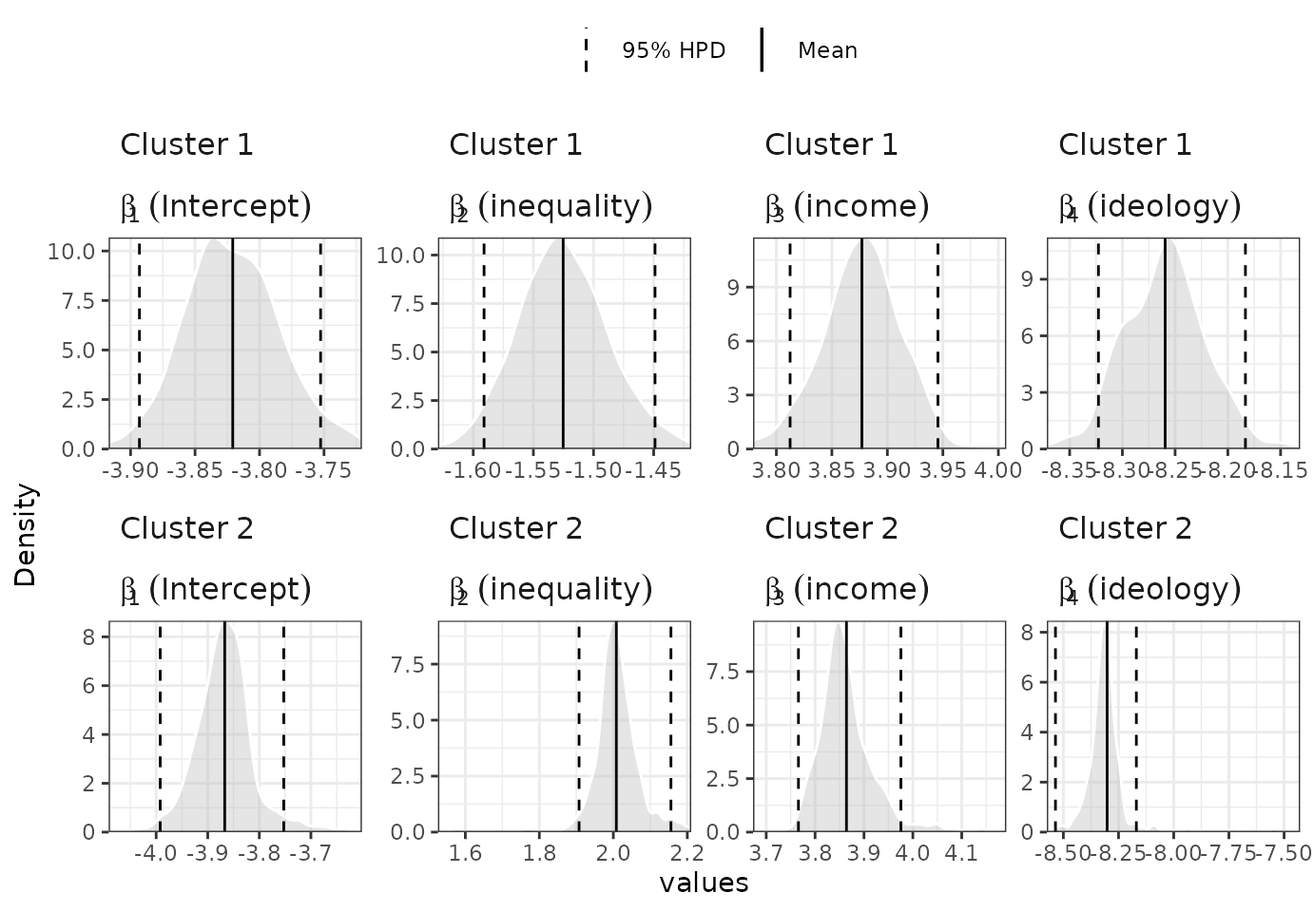
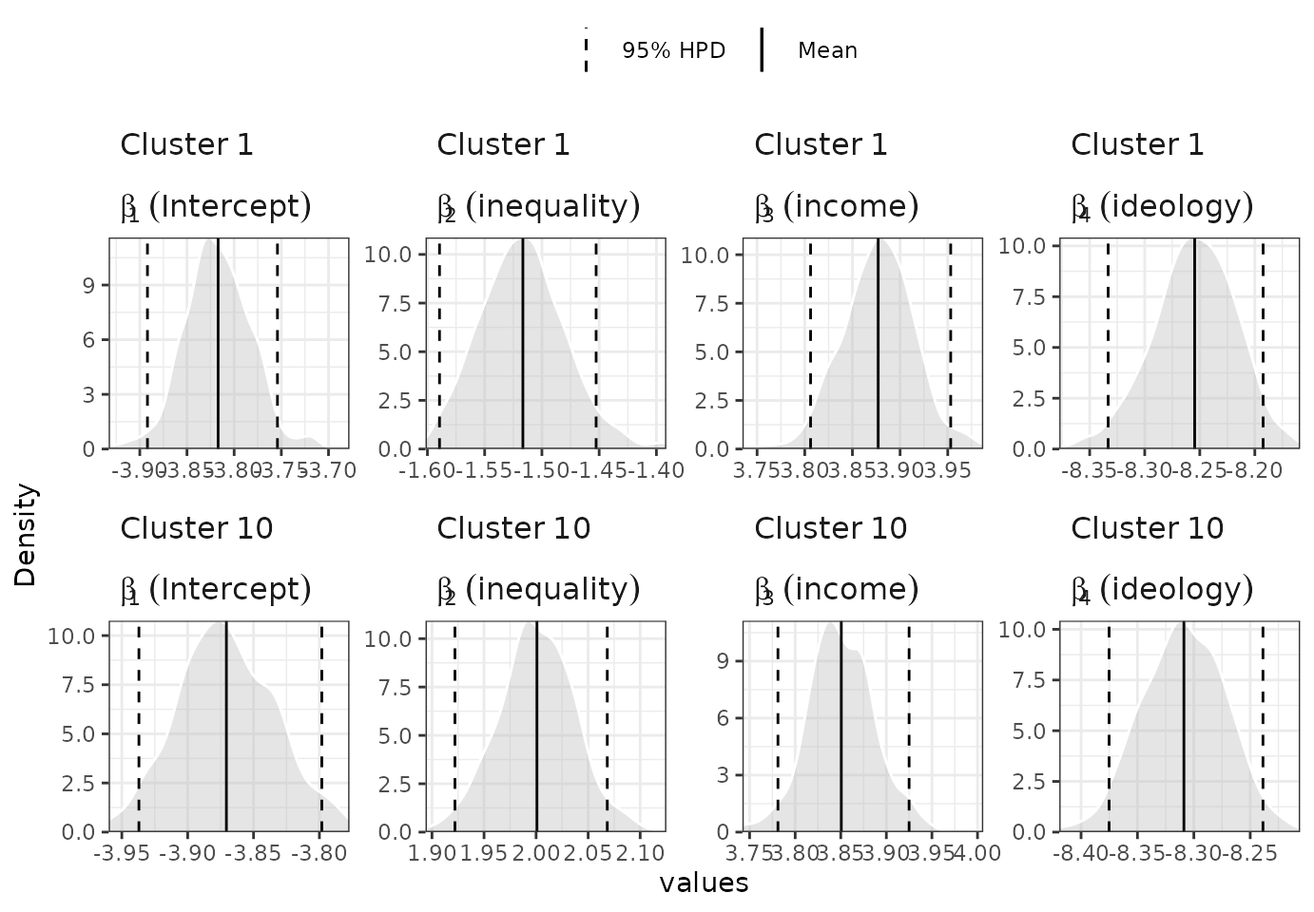
Deploying to gh-pages from @ DiogoFerrari/hdpGLM@88c614b05565bf1865a27feb75b588c62721f11c 🚀

diff --git a/articles/hdpGLM.html b/articles/hdpGLM.html
@@ -216,7 +216,7 @@ number.</p>
 <span><span class="co">#&gt; -------------------------------- </span></span>
 <span><span class="co">#&gt; dpGLM model object</span></span>
 <span><span class="co">#&gt; </span></span>
-<span><span class="co">#&gt; Maximum number of clusters activated during the estimation: 9</span></span>
+<span><span class="co">#&gt; Maximum number of clusters activated during the estimation: 16</span></span>
 <span><span class="co">#&gt; Number of MCMC iterations: 500</span></span>
 <span><span class="co">#&gt; burn-in: 10</span></span>
 <span><span class="co">#&gt; -------------------------------- </span></span>
@@ -227,21 +227,21 @@ number.</p>
 <span><span class="co">#&gt; Coefficients for cluster 1 (cluster label 1)</span></span>
 <span><span class="co">#&gt; </span></span>
 <span><span class="co">#&gt;                Post.Mean Post.Median  HPD.lower HPD.upper</span></span>
-<span><span class="co">#&gt; 1 (Intercept) -3.8207758  -3.8223273 -3.8931209 -3.752647</span></span>
-<span><span class="co">#&gt; 2  inequality -1.5252391  -1.5271405 -1.5909996 -1.448886</span></span>
-<span><span class="co">#&gt; 3      income  3.8770685   3.8775539  3.8123885  3.945545</span></span>
-<span><span class="co">#&gt; 4    ideology -8.2594432  -8.2580263 -8.3226927 -8.183320</span></span>
-<span><span class="co">#&gt; 5       sigma  0.9736972   0.9725718  0.8656882  1.080429</span></span>
+<span><span class="co">#&gt; 1 (Intercept) -3.8169985  -3.8191160 -3.8918910 -3.754108</span></span>
+<span><span class="co">#&gt; 2  inequality -1.5166133  -1.5184802 -1.5894280 -1.452637</span></span>
+<span><span class="co">#&gt; 3      income  3.8770504   3.8773247  3.8061103  3.953092</span></span>
+<span><span class="co">#&gt; 4    ideology -8.2546440  -8.2537404 -8.3331949 -8.192447</span></span>
+<span><span class="co">#&gt; 5       sigma  0.9853141   0.9860343  0.8764047  1.094404</span></span>
 <span><span class="co">#&gt; </span></span>
 <span><span class="co">#&gt; --------------------------------</span></span>
-<span><span class="co">#&gt; Coefficients for cluster 2 (cluster label 2)</span></span>
+<span><span class="co">#&gt; Coefficients for cluster 2 (cluster label 10)</span></span>
 <span><span class="co">#&gt; </span></span>
-<span><span class="co">#&gt;                Post.Mean Post.Median  HPD.lower HPD.upper</span></span>
-<span><span class="co">#&gt; 1 (Intercept) -3.8670918  -3.8678920 -3.9920918 -3.752661</span></span>
-<span><span class="co">#&gt; 2  inequality  2.0081748   2.0065151  1.9074578  2.155788</span></span>
-<span><span class="co">#&gt; 3      income  3.8641959   3.8547308  3.7659219  3.975534</span></span>
-<span><span class="co">#&gt; 4    ideology -8.3017623  -8.3132706 -8.5358097 -8.169262</span></span>
-<span><span class="co">#&gt; 5       sigma  0.9977907   0.9985164  0.9017457  1.103865</span></span>
+<span><span class="co">#&gt;               Post.Mean Post.Median  HPD.lower HPD.upper</span></span>
+<span><span class="co">#&gt; 1 (Intercept) -3.870622   -3.872127 -3.9370319 -3.798184</span></span>
+<span><span class="co">#&gt; 2  inequality  2.000834    2.000312  1.9220563  2.068377</span></span>
+<span><span class="co">#&gt; 3      income  3.850588    3.848918  3.7810806  3.924965</span></span>
+<span><span class="co">#&gt; 4    ideology -8.308805   -8.309267 -8.3751355 -8.238710</span></span>
+<span><span class="co">#&gt; 5       sigma  1.000533    1.000359  0.9180542  1.098193</span></span>
 <span><span class="co">#&gt; </span></span>
 <span><span class="co">#&gt; --------------------------------</span></span></code></pre></div>
 <p>The summary function prints the result in a tidy format. The column
@@ -254,12 +254,12 @@ points into clusters based on the estimation.</p>
 <code class="sourceCode R"><span><span class="va">welfare_clustered</span> <span class="op">=</span> <span class="fu"><a href="../reference/classify.html">classify</a></span><span class="op">(</span><span class="va">welfare</span>, <span class="va">mod</span><span class="op">)</span></span>
 <span><span class="fu"><a href="https://rdrr.io/r/utils/head.html" class="external-link">head</a></span><span class="op">(</span><span class="va">welfare_clustered</span><span class="op">)</span></span>
 <span><span class="co">#&gt;   Cluster     support inequality     income   ideology</span></span>
-<span><span class="co">#&gt; 1       2 -18.5649610  0.3392724  0.1425111  1.9225985</span></span>
-<span><span class="co">#&gt; 2       2  -9.3905812 -0.9906646 -0.5117102  0.2483346</span></span>
-<span><span class="co">#&gt; 3       2   0.9276234 -2.2318510 -0.3856288 -1.3619216</span></span>
-<span><span class="co">#&gt; 4       2 -12.3594498 -3.0079501 -0.9440585 -0.2088675</span></span>
+<span><span class="co">#&gt; 1      10 -18.5649610  0.3392724  0.1425111  1.9225985</span></span>
+<span><span class="co">#&gt; 2      10  -9.3905812 -0.9906646 -0.5117102  0.2483346</span></span>
+<span><span class="co">#&gt; 3      10   0.9276234 -2.2318510 -0.3856288 -1.3619216</span></span>
+<span><span class="co">#&gt; 4      10 -12.3594498 -3.0079501 -0.9440585 -0.2088675</span></span>
 <span><span class="co">#&gt; 5       1  -2.4834411  0.1000455  0.8322192  0.1321378</span></span>
-<span><span class="co">#&gt; 6       2 -11.4187853 -0.9543883 -0.8810503  0.2916444</span></span>
+<span><span class="co">#&gt; 6      10 -11.4187853 -0.9543883 -0.8810503  0.2916444</span></span>
 <span><span class="fu"><a href="https://rdrr.io/r/utils/head.html" class="external-link">tail</a></span><span class="op">(</span><span class="va">welfare_clustered</span><span class="op">)</span></span>
 <span><span class="co">#&gt;      Cluster     support  inequality     income   ideology</span></span>
 <span><span class="co">#&gt; 1995       1  -1.5230053 1.055855140 -0.7295937 -0.7067871</span></span>
@@ -339,8 +339,8 @@ increase that).</p>
 <span><span class="co">#&gt; </span></span>
 <span><span class="co">#&gt; Number of clusters (summary across contexts): </span></span>
 <span><span class="co">#&gt; </span></span>
-<span><span class="co">#&gt;   Average Std.Dev Median Min. Max.</span></span>
-<span><span class="co">#&gt; 1     4.2 1.48324      4    2    6</span></span>
+<span><span class="co">#&gt;   Average  Std.Dev Median Min. Max.</span></span>
+<span><span class="co">#&gt; 1     3.8 2.588436      3    1    7</span></span>
 <span><span class="co">#&gt; -------------------------------- </span></span>
 <span><span class="co">#&gt; </span></span>
 <span><span class="co">#&gt; </span></span>
@@ -349,123 +349,115 @@ increase that).</p>
 <span><span class="co">#&gt; --------------------------------</span></span>
 <span><span class="co">#&gt; Coefficients and clusters for context 1</span></span>
 <span><span class="co">#&gt; </span></span>
-<span><span class="co">#&gt;                Post.Mean Post.Median  HPD.lower  HPD.upper Cluster</span></span>
-<span><span class="co">#&gt; 1  (Intercept) -3.849978   -3.853066 -3.9312231 -3.7676252       1</span></span>
-<span><span class="co">#&gt; 2   inequality  1.786475    1.976493  0.4199656  2.0787516       1</span></span>
-<span><span class="co">#&gt; 3       income  3.859221    3.860844  3.7719850  3.9525215       1</span></span>
-<span><span class="co">#&gt; 4     ideology -8.347383   -8.345391 -8.5183149 -8.2322828       1</span></span>
-<span><span class="co">#&gt; 5  (Intercept) -4.775081   -4.598791 -6.3868101 -3.8660588       5</span></span>
-<span><span class="co">#&gt; 6   inequality -1.664089   -1.550196 -3.0220550 -1.2547717       5</span></span>
-<span><span class="co">#&gt; 7       income  3.606685    3.767715  1.5941116  3.9846027       5</span></span>
-<span><span class="co">#&gt; 8     ideology -7.535994   -8.059207 -8.3428676 -3.2389504       5</span></span>
-<span><span class="co">#&gt; 9  (Intercept) -3.396911   -3.471924 -4.7010480 -2.7765537       9</span></span>
-<span><span class="co">#&gt; 10  inequality -1.412666   -1.352167 -2.5347551 -1.1617820       9</span></span>
-<span><span class="co">#&gt; 11      income  3.251719    3.747234 -1.7184433  3.9462121       9</span></span>
-<span><span class="co">#&gt; 12    ideology -7.949701   -8.293699 -8.5108179 -3.2306134       9</span></span>
-<span><span class="co">#&gt; 13 (Intercept) -3.381096   -3.683884 -3.8078069  0.9903336      11</span></span>
-<span><span class="co">#&gt; 14  inequality -1.932123   -1.716267 -5.2628918 -1.3507539      11</span></span>
-<span><span class="co">#&gt; 15      income  3.557398    3.949408 -0.4016709  4.0520926      11</span></span>
-<span><span class="co">#&gt; 16    ideology -7.687617   -8.243344 -8.3513082  0.8944724      11</span></span>
+<span><span class="co">#&gt;               Post.Mean Post.Median HPD.lower   HPD.upper Cluster</span></span>
+<span><span class="co">#&gt; 1 (Intercept) -3.812585   -3.812623 -3.887795 -3.75324806       1</span></span>
+<span><span class="co">#&gt; 2  inequality -1.358832   -1.520807 -1.585257  0.01854296       1</span></span>
+<span><span class="co">#&gt; 3      income  3.869229    3.871477  3.783608  3.95943658       1</span></span>
+<span><span class="co">#&gt; 4    ideology -8.289369   -8.272530 -8.486057 -8.20616875       1</span></span>
+<span><span class="co">#&gt; 5 (Intercept) -4.010705   -3.890695 -5.099688 -3.79557013       6</span></span>
+<span><span class="co">#&gt; 6  inequality  1.911035    1.990635  1.023356  2.08476848       6</span></span>
+<span><span class="co">#&gt; 7      income  3.982400    3.860998  3.791823  5.06405112       6</span></span>
+<span><span class="co">#&gt; 8    ideology -8.067727   -8.278478 -8.416527 -5.82263865       6</span></span>
 <span><span class="co">#&gt; </span></span>
 <span><span class="co">#&gt; --------------------------------</span></span>
 <span><span class="co">#&gt; Coefficients and clusters for context 2</span></span>
 <span><span class="co">#&gt; </span></span>
-<span><span class="co">#&gt;                  Post.Mean Post.Median  HPD.lower    HPD.upper Cluster</span></span>
-<span><span class="co">#&gt; 1  (Intercept) -0.08289767   0.1842996 -4.1937385  0.496434410       1</span></span>
-<span><span class="co">#&gt; 2   inequality -0.08150872  -0.2048512 -0.3538888  1.481398480       1</span></span>
-<span><span class="co">#&gt; 3       income -0.04027752  -0.1281646 -0.2344693  4.360232357       1</span></span>
-<span><span class="co">#&gt; 4     ideology -1.84572902  -1.7927884 -2.1390214 -1.161906391       1</span></span>
-<span><span class="co">#&gt; 5  (Intercept) -0.28131863  -0.2763859 -0.5601869  0.007326392       2</span></span>
-<span><span class="co">#&gt; 6   inequality -1.36887260  -1.3174918 -1.6485529 -1.101675834       2</span></span>
-<span><span class="co">#&gt; 7       income -0.69842689  -0.7075596 -0.9802084 -0.392486054       2</span></span>
-<span><span class="co">#&gt; 8     ideology -2.44178056  -2.4481428 -2.8094704 -1.970193325       2</span></span>
-<span><span class="co">#&gt; 9  (Intercept) -0.78740159  -0.6089710 -1.6111684 -0.223420761       4</span></span>
-<span><span class="co">#&gt; 10  inequality -1.35896559  -1.1785446 -2.2894766 -0.383985786       4</span></span>
-<span><span class="co">#&gt; 11      income  0.19496599   0.1336669 -0.4560425  1.291507320       4</span></span>
-<span><span class="co">#&gt; 12    ideology -2.11703284  -2.1393201 -2.4123944 -1.407426837       4</span></span>
-<span><span class="co">#&gt; 13 (Intercept)  1.20316586   1.2070320  0.8922021  1.531882486       7</span></span>
-<span><span class="co">#&gt; 14  inequality  0.91344279   0.9249312  0.7236097  1.203807454       7</span></span>
-<span><span class="co">#&gt; 15      income  0.74154914   0.8864079 -1.1164761  1.145695207       7</span></span>
-<span><span class="co">#&gt; 16    ideology -1.54751352  -1.5859708 -1.9486156 -1.277906585       7</span></span>
-<span><span class="co">#&gt; </span></span>
-<span><span class="co">#&gt; --------------------------------</span></span>
-<span><span class="co">#&gt; Coefficients and clusters for context 3</span></span>
-<span><span class="co">#&gt; </span></span>
-<span><span class="co">#&gt;                  Post.Mean Post.Median   HPD.lower  HPD.upper Cluster</span></span>
-<span><span class="co">#&gt; 1  (Intercept)  0.70472388  0.66350446   0.1771856  2.0570830       2</span></span>
-<span><span class="co">#&gt; 2   inequality -0.11477239 -0.12552241  -0.5239452  0.2860199       2</span></span>
-<span><span class="co">#&gt; 3       income -3.33784115 -3.39412959  -3.9622573 -2.1637968       2</span></span>
-<span><span class="co">#&gt; 4     ideology  1.31260427  1.20062012   0.5879018  2.1605719       2</span></span>
-<span><span class="co">#&gt; 5  (Intercept) -0.97392850 -1.03841855  -1.2815185 -0.6266733       3</span></span>
-<span><span class="co">#&gt; 6   inequality  0.42531533  0.55147239  -0.3107829  0.7986332       3</span></span>
-<span><span class="co">#&gt; 7       income -3.74129563 -3.76992033  -4.0853531 -3.2634371       3</span></span>
-<span><span class="co">#&gt; 8     ideology  2.50350431  2.27674302   1.8615355  4.1279064       3</span></span>
-<span><span class="co">#&gt; 9  (Intercept) -1.21983657 -1.35166938  -1.6242358 -0.3653201       4</span></span>
-<span><span class="co">#&gt; 10  inequality  0.56487487  0.53711890  -0.1348752  1.5513098       4</span></span>
-<span><span class="co">#&gt; 11      income -4.18743548 -4.23774161  -4.8969872 -3.4687619       4</span></span>
-<span><span class="co">#&gt; 12    ideology  1.02786472  1.05443520   0.2293942  1.9879902       4</span></span>
-<span><span class="co">#&gt; 13 (Intercept) -0.02078138 -0.04720472  -0.2555607  0.5827610       5</span></span>
-<span><span class="co">#&gt; 14  inequality  0.42971134  0.51975778  -0.3705467  0.6597487       5</span></span>
-<span><span class="co">#&gt; 15      income -2.59765517 -2.61211102  -3.1389297 -2.1291184       5</span></span>
-<span><span class="co">#&gt; 16    ideology  2.42877280  2.32180703   2.0032271  2.8215071       5</span></span>
-<span><span class="co">#&gt; 17 (Intercept) -0.35534260 -0.34475327  -1.2231432  0.1150394       6</span></span>
-<span><span class="co">#&gt; 18  inequality -0.78618265 -0.64914490  -2.7935779 -0.3649112       6</span></span>
-<span><span class="co">#&gt; 19      income -4.21938209 -4.15592017  -5.1655208 -3.8566779       6</span></span>
-<span><span class="co">#&gt; 20    ideology  0.69971950  0.61567767   0.3030823  2.5760980       6</span></span>
-<span><span class="co">#&gt; 21 (Intercept) -0.49920830  0.45653841 -10.3487676  4.6530676       7</span></span>
-<span><span class="co">#&gt; 22  inequality  1.70683064  1.56168324  -1.7553603  7.9989300       7</span></span>
-<span><span class="co">#&gt; 23      income -3.67915277 -3.78219841  -8.8698298  1.1475647       7</span></span>
-<span><span class="co">#&gt; 24    ideology  1.16068257  1.51020177  -9.2155077 10.8017588       7</span></span>
-<span><span class="co">#&gt; </span></span>
-<span><span class="co">#&gt; --------------------------------</span></span>
-<span><span class="co">#&gt; Coefficients and clusters for context 5</span></span>
-<span><span class="co">#&gt; </span></span>
-<span><span class="co">#&gt;                 Post.Mean Post.Median   HPD.lower  HPD.upper Cluster</span></span>
-<span><span class="co">#&gt; 1  (Intercept)  0.3924863   0.3323964 -0.01235017  0.9735203       2</span></span>
-<span><span class="co">#&gt; 2   inequality -2.2417608  -2.3293708 -2.54042047 -1.0590801       2</span></span>
-<span><span class="co">#&gt; 3       income  0.4641301   0.3695469  0.04579691  1.6255970       2</span></span>
-<span><span class="co">#&gt; 4     ideology -2.0209309  -2.1588389 -2.37597441 -0.2758450       2</span></span>
-<span><span class="co">#&gt; 5  (Intercept) -0.4287179  -0.4451257 -0.73048628 -0.1601906       3</span></span>
-<span><span class="co">#&gt; 6   inequality -0.9811220  -0.9940574 -1.36754233 -0.6059739       3</span></span>
-<span><span class="co">#&gt; 7       income -1.2860805  -1.2019210 -2.10531631 -0.8406603       3</span></span>
-<span><span class="co">#&gt; 8     ideology -2.9380146  -2.8344562 -4.04613212 -2.5483917       3</span></span>
-<span><span class="co">#&gt; 9  (Intercept) -0.2070740  -0.1112173 -1.61587694  0.1859527       4</span></span>
-<span><span class="co">#&gt; 10  inequality  1.1124306   1.0394192  0.87622810  2.2661905       4</span></span>
-<span><span class="co">#&gt; 11      income -0.4535630  -0.3489352 -1.82798205 -0.1623781       4</span></span>
-<span><span class="co">#&gt; 12    ideology -1.8566469  -1.9078674 -2.16792916 -0.9953839       4</span></span>
-<span><span class="co">#&gt; 13 (Intercept) -1.8033818  -1.8400956 -2.21666444 -0.9114002       6</span></span>
-<span><span class="co">#&gt; 14  inequality -1.6440420  -1.6773198 -2.80100867 -0.9108051       6</span></span>
-<span><span class="co">#&gt; 15      income  0.7346672   0.9598060 -0.05130389  1.5836677       6</span></span>
-<span><span class="co">#&gt; 16    ideology -1.5271895  -1.6068746 -2.21680614 -0.8407956       6</span></span>
-<span><span class="co">#&gt; 17 (Intercept)  0.2362825   0.2789148 -0.98765784  0.9841361       7</span></span>
-<span><span class="co">#&gt; 18  inequality -3.4768286  -3.4174547 -4.66938420 -3.1932106       7</span></span>
-<span><span class="co">#&gt; 19      income -1.0761872  -1.0199505 -2.69959598 -0.4437133       7</span></span>
-<span><span class="co">#&gt; 20    ideology -2.4201358  -2.4626866 -2.77434324 -1.2805235       7</span></span>
+<span><span class="co">#&gt;                 Post.Mean Post.Median  HPD.lower     HPD.upper Cluster</span></span>
+<span><span class="co">#&gt; 1  (Intercept)  1.5482685   0.9413472 -0.1401382  5.3443790812       1</span></span>
+<span><span class="co">#&gt; 2   inequality  0.2470163   0.1191455 -3.9739251  3.8748005285       1</span></span>
+<span><span class="co">#&gt; 3       income  1.8724505   1.0146681 -2.5288670  6.0807805776       1</span></span>
+<span><span class="co">#&gt; 4     ideology -1.3170204  -1.5976388 -4.6574534  2.7888708223       1</span></span>
+<span><span class="co">#&gt; 5  (Intercept)  1.5285735   1.4807925  1.2891914  1.9462248942       2</span></span>
+<span><span class="co">#&gt; 6   inequality  0.8432104   1.0013248  0.1601813  1.1977333480       2</span></span>
+<span><span class="co">#&gt; 7       income  0.7503137   0.7819057  0.3035157  0.9630269993       2</span></span>
+<span><span class="co">#&gt; 8     ideology -1.8872858  -1.7688398 -3.1950157 -1.5820123823       2</span></span>
+<span><span class="co">#&gt; 9  (Intercept) -0.2717237  -0.2489124 -0.6931113  0.0003502826       3</span></span>
+<span><span class="co">#&gt; 10  inequality -1.1563480  -1.1882276 -1.4052772 -0.8054131537       3</span></span>
+<span><span class="co">#&gt; 11      income -0.3685679  -0.4538476 -0.7646824  0.5398268384       3</span></span>
+<span><span class="co">#&gt; 12    ideology -2.2564023  -2.2724278 -2.4893145 -1.9787167576       3</span></span>
+<span><span class="co">#&gt; 13 (Intercept)  0.9508466   1.0900442 -0.7672420  3.1286138997       4</span></span>
+<span><span class="co">#&gt; 14  inequality -1.4791436  -1.1875157 -4.3939827  0.7953665602       4</span></span>
+<span><span class="co">#&gt; 15      income  1.7719908   1.7138220  1.0330258  2.7049540609       4</span></span>
+<span><span class="co">#&gt; 16    ideology -1.1026112  -0.7876458 -4.1553742  0.6894510312       4</span></span>
+<span><span class="co">#&gt; 17 (Intercept)  0.3903606   0.4015931 -0.3902788  0.8240772520       5</span></span>
+<span><span class="co">#&gt; 18  inequality  1.7579351   1.8247953  1.0788931  2.3141305561       5</span></span>
+<span><span class="co">#&gt; 19      income  0.8279896   0.7312969  0.4055766  1.5182004959       5</span></span>
+<span><span class="co">#&gt; 20    ideology -2.3099216  -2.2721546 -2.8327201 -1.9184424018       5</span></span>
+<span><span class="co">#&gt; 21 (Intercept) -0.4948082  -0.2769538 -3.3936984  0.9411309421       8</span></span>
+<span><span class="co">#&gt; 22  inequality -0.9021012  -0.9460951 -1.7583695  1.2316576586       8</span></span>
+<span><span class="co">#&gt; 23      income -0.3295737  -0.4314418 -1.3506383  2.3222936362       8</span></span>
+<span><span class="co">#&gt; 24    ideology -1.0219960  -1.2538095 -2.6139513  1.6627378018       8</span></span>
+<span><span class="co">#&gt; 25 (Intercept)  1.5827843   1.5869876  0.8716365  2.5070728683       9</span></span>
+<span><span class="co">#&gt; 26  inequality  0.6945229   0.6974450 -0.7722265  1.9164806682       9</span></span>
+<span><span class="co">#&gt; 27      income  0.6169998   0.7941595 -1.3161252  2.0614764072       9</span></span>
+<span><span class="co">#&gt; 28    ideology -2.6157978  -2.4635686 -4.4834678 -0.4892047111       9</span></span>
 <span><span class="co">#&gt; </span></span>
 <span><span class="co">#&gt; --------------------------------</span></span>
 <span><span class="co">#&gt; Coefficients and clusters for context 4</span></span>
 <span><span class="co">#&gt; </span></span>
-<span><span class="co">#&gt;                 Post.Mean  Post.Median    HPD.lower   HPD.upper Cluster</span></span>
-<span><span class="co">#&gt; 1 (Intercept)  0.25865190  0.191818100  0.003680503  1.05923565       3</span></span>
-<span><span class="co">#&gt; 2  inequality -1.01116141 -1.064685152 -1.207709371 -0.31235235       3</span></span>
-<span><span class="co">#&gt; 3      income -2.56565821 -2.574933464 -2.727350568 -2.29482399       3</span></span>
-<span><span class="co">#&gt; 4    ideology -0.00754234  0.001507201 -0.161413581  0.17572198       3</span></span>
-<span><span class="co">#&gt; 5 (Intercept) -0.40580677 -0.394052641 -0.928750638  0.04325853       4</span></span>
-<span><span class="co">#&gt; 6  inequality -1.16046891 -1.182935356 -1.729365596 -0.67153734       4</span></span>
-<span><span class="co">#&gt; 7      income -2.71262962 -2.703892899 -3.584936243 -0.76181820       4</span></span>
-<span><span class="co">#&gt; 8    ideology -0.87889958 -0.981511749 -1.258172094  0.91198601       4</span></span>
+<span><span class="co">#&gt;                 Post.Mean Post.Median  HPD.lower  HPD.upper Cluster</span></span>
+<span><span class="co">#&gt; 1 (Intercept)  0.08364021   0.1154415 -0.6530777  0.5165699       2</span></span>
+<span><span class="co">#&gt; 2  inequality -1.09572042  -1.0981277 -1.2467635 -0.8834268       2</span></span>
+<span><span class="co">#&gt; 3      income -2.43025240  -2.5680450 -2.7623654 -0.4334839       2</span></span>
+<span><span class="co">#&gt; 4    ideology -0.10958224  -0.1086207 -0.4067710  0.2360204       2</span></span>
+<span><span class="co">#&gt; </span></span>
+<span><span class="co">#&gt; --------------------------------</span></span>
+<span><span class="co">#&gt; Coefficients and clusters for context 5</span></span>
+<span><span class="co">#&gt; </span></span>
+<span><span class="co">#&gt;                  Post.Mean Post.Median  HPD.lower  HPD.upper Cluster</span></span>
+<span><span class="co">#&gt; 1  (Intercept)  0.95513955  0.92491626  0.2200681  2.9018225       2</span></span>
+<span><span class="co">#&gt; 2   inequality -3.06973403 -3.02921869 -3.9374967 -1.7614430       2</span></span>
+<span><span class="co">#&gt; 3       income  0.06694747  0.01568205 -0.4811542  0.8601315       2</span></span>
+<span><span class="co">#&gt; 4     ideology -2.65542954 -2.73707320 -4.1943833 -1.5911375       2</span></span>
+<span><span class="co">#&gt; 5  (Intercept)  0.62045630  0.81435738 -3.2090353  3.1139297       3</span></span>
+<span><span class="co">#&gt; 6   inequality -2.33563237 -2.71479039 -4.1079529  2.8869986       3</span></span>
+<span><span class="co">#&gt; 7       income -0.64957141 -1.29758231 -4.1718455  2.9489251       3</span></span>
+<span><span class="co">#&gt; 8     ideology -1.52958518 -1.95172925 -8.5021049  4.1111532       3</span></span>
+<span><span class="co">#&gt; 9  (Intercept) -0.21737068 -0.29826126 -1.5851549  0.7740002       5</span></span>
+<span><span class="co">#&gt; 10  inequality -2.17331081 -2.26943058 -3.7153081 -1.4183500       5</span></span>
+<span><span class="co">#&gt; 11      income -0.11582130 -0.04680592 -0.9651180  0.6759692       5</span></span>
+<span><span class="co">#&gt; 12    ideology -1.07515421 -1.10491210 -2.6587556  1.8037906       5</span></span>
+<span><span class="co">#&gt; 13 (Intercept) -0.08809918 -0.11626902 -0.4907884  0.6644956       7</span></span>
+<span><span class="co">#&gt; 14  inequality  1.00471276  0.95489288  0.6972902  1.6411457       7</span></span>
+<span><span class="co">#&gt; 15      income -0.41360624 -0.36933672 -1.3102114 -0.1223445       7</span></span>
+<span><span class="co">#&gt; 16    ideology -1.82000287 -1.91785259 -2.1520805 -0.3250652       7</span></span>
+<span><span class="co">#&gt; 17 (Intercept) -0.17690480 -0.14926750 -0.6179532  0.3347957       8</span></span>
+<span><span class="co">#&gt; 18  inequality -1.46618215 -2.11007655 -2.8508528  0.9472613       8</span></span>
+<span><span class="co">#&gt; 19      income -0.15596091 -0.06328917 -0.7146788  0.4247225       8</span></span>
+<span><span class="co">#&gt; 20    ideology -2.62329883 -2.60434821 -3.1860973 -2.1389238       8</span></span>
+<span><span class="co">#&gt; 21 (Intercept)  1.03859507  1.06333312 -0.7150022  3.6412196       9</span></span>
+<span><span class="co">#&gt; 22  inequality -2.50520609 -2.67322151 -3.8673556 -0.7558472       9</span></span>
+<span><span class="co">#&gt; 23      income -0.29257262 -0.65003751 -2.0775271  1.0751024       9</span></span>
+<span><span class="co">#&gt; 24    ideology -2.05845535 -1.98679230 -4.7719357 -0.4752583       9</span></span>
+<span><span class="co">#&gt; </span></span>
+<span><span class="co">#&gt; --------------------------------</span></span>
+<span><span class="co">#&gt; Coefficients and clusters for context 3</span></span>
+<span><span class="co">#&gt; </span></span>
+<span><span class="co">#&gt;                 Post.Mean Post.Median  HPD.lower  HPD.upper Cluster</span></span>
+<span><span class="co">#&gt; 1  (Intercept) -0.1740308 -0.18628546 -0.4192022  0.2007200       3</span></span>
+<span><span class="co">#&gt; 2   inequality  0.5136865  0.45453972  0.2457688  1.1597659       3</span></span>
+<span><span class="co">#&gt; 3       income -2.8561609 -2.78959689 -3.9482222 -2.4206947       3</span></span>
+<span><span class="co">#&gt; 4     ideology  2.4374605  2.44519226  1.9058576  3.3392848       3</span></span>
+<span><span class="co">#&gt; 5  (Intercept) -0.1228627 -0.04712069 -1.3127186  0.3200305       4</span></span>
+<span><span class="co">#&gt; 6   inequality  1.5094112  1.31468749  0.2514931  6.8307673       4</span></span>
+<span><span class="co">#&gt; 7       income -3.3471268 -3.47594917 -4.2742524 -1.7424259       4</span></span>
+<span><span class="co">#&gt; 8     ideology  1.4321723  1.72255869 -2.0775788  2.4820400       4</span></span>
+<span><span class="co">#&gt; 9  (Intercept) -0.1157258 -0.25570425 -0.4471715  2.2532281       5</span></span>
+<span><span class="co">#&gt; 10  inequality -0.6621056 -0.62730342 -1.2002166 -0.4059057       5</span></span>
+<span><span class="co">#&gt; 11      income -4.0781626 -4.08606584 -4.3318154 -3.6821355       5</span></span>
+<span><span class="co">#&gt; 12    ideology  0.5819177  0.58128869  0.2651552  0.9355151       5</span></span>
 <span><span class="co">#&gt; </span></span>
 <span><span class="co">#&gt; --------------------------------</span></span>
 <span><span class="co">#&gt; Context-level coefficients:</span></span>
-<span><span class="co">#&gt;                Description    Post.Mean HPD.lower HPD.upper</span></span>
-<span><span class="co">#&gt; 1     Intercept of beta[0] -0.806738823 -2.884835  1.634493</span></span>
-<span><span class="co">#&gt; 2     Intercept of beta[1] -0.005888942 -2.599704  2.750249</span></span>
-<span><span class="co">#&gt; 3     Intercept of beta[2]  0.061338079 -2.127256  2.974029</span></span>
-<span><span class="co">#&gt; 4     Intercept of beta[3] -1.155526323 -3.643366  1.949214</span></span>
-<span><span class="co">#&gt; 5 Effect of gap on beta[0] -0.003821739 -3.201348  2.505595</span></span>
-<span><span class="co">#&gt; 6 Effect of gap on beta[1]  0.405361171 -1.374669  3.337527</span></span>
-<span><span class="co">#&gt; 7 Effect of gap on beta[2] -0.746767492 -3.568677  1.445144</span></span>
-<span><span class="co">#&gt; 8 Effect of gap on beta[3]  0.660779040 -1.683964  2.532721</span></span>
+<span><span class="co">#&gt;                Description   Post.Mean HPD.lower HPD.upper</span></span>
+<span><span class="co">#&gt; 1     Intercept of beta[0]  0.05627036 -3.144050  3.559132</span></span>
+<span><span class="co">#&gt; 2     Intercept of beta[1] -0.12351139 -3.362341  2.745937</span></span>
+<span><span class="co">#&gt; 3     Intercept of beta[2] -0.37523984 -2.358426  2.330747</span></span>
+<span><span class="co">#&gt; 4     Intercept of beta[3] -0.61632991 -2.819034  1.664951</span></span>
+<span><span class="co">#&gt; 5 Effect of gap on beta[0] -0.03357492 -2.327259  1.795201</span></span>
+<span><span class="co">#&gt; 6 Effect of gap on beta[1]  0.60003824 -1.296598  2.974322</span></span>
+<span><span class="co">#&gt; 7 Effect of gap on beta[2] -0.83017808 -2.589386  1.202593</span></span>
+<span><span class="co">#&gt; 8 Effect of gap on beta[3]  0.70308993 -2.114292  2.645674</span></span>
 <span><span class="co">#&gt; </span></span>
 <span><span class="co">#&gt; --------------------------------</span></span></code></pre></div>
 <p>The <code>summary</code> contains more information now. As before,

diff --git a/404.html b/404.html
@@ -7,11 +7,11 @@
 <meta name="viewport" content="width=device-width, initial-scale=1.0">
 <title>Page not found (404) • hdpGLM</title>
 <!-- jquery --><script src="https://cdnjs.cloudflare.com/ajax/libs/jquery/3.4.1/jquery.min.js" integrity="sha256-CSXorXvZcTkaix6Yvo6HppcZGetbYMGWSFlBw8HfCJo=" crossorigin="anonymous"></script><!-- Bootstrap --><link href="https://cdnjs.cloudflare.com/ajax/libs/bootswatch/3.4.0/flatly/bootstrap.min.css" rel="stylesheet" crossorigin="anonymous">
-<script src="https://cdnjs.cloudflare.com/ajax/libs/twitter-bootstrap/3.4.1/js/bootstrap.min.js" integrity="sha256-nuL8/2cJ5NDSSwnKD8VqreErSWHtnEP9E7AySL+1ev4=" crossorigin="anonymous"></script><!-- bootstrap-toc --><link rel="stylesheet" href="http://diogoferrari.github.io/hdpGLM/bootstrap-toc.css">
-<script src="http://diogoferrari.github.io/hdpGLM/bootstrap-toc.js"></script><!-- Font Awesome icons --><link rel="stylesheet" href="https://cdnjs.cloudflare.com/ajax/libs/font-awesome/5.12.1/css/all.min.css" integrity="sha256-mmgLkCYLUQbXn0B1SRqzHar6dCnv9oZFPEC1g1cwlkk=" crossorigin="anonymous">
+<script src="https://cdnjs.cloudflare.com/ajax/libs/twitter-bootstrap/3.4.1/js/bootstrap.min.js" integrity="sha256-nuL8/2cJ5NDSSwnKD8VqreErSWHtnEP9E7AySL+1ev4=" crossorigin="anonymous"></script><!-- bootstrap-toc --><link rel="stylesheet" href="http://www.diogoferrari.com/hdpGLM/bootstrap-toc.css">
+<script src="http://www.diogoferrari.com/hdpGLM/bootstrap-toc.js"></script><!-- Font Awesome icons --><link rel="stylesheet" href="https://cdnjs.cloudflare.com/ajax/libs/font-awesome/5.12.1/css/all.min.css" integrity="sha256-mmgLkCYLUQbXn0B1SRqzHar6dCnv9oZFPEC1g1cwlkk=" crossorigin="anonymous">
 <link rel="stylesheet" href="https://cdnjs.cloudflare.com/ajax/libs/font-awesome/5.12.1/css/v4-shims.min.css" integrity="sha256-wZjR52fzng1pJHwx4aV2AO3yyTOXrcDW7jBpJtTwVxw=" crossorigin="anonymous">
-<!-- clipboard.js --><script src="https://cdnjs.cloudflare.com/ajax/libs/clipboard.js/2.0.6/clipboard.min.js" integrity="sha256-inc5kl9MA1hkeYUt+EC3BhlIgyp/2jDIyBLS6k3UxPI=" crossorigin="anonymous"></script><!-- headroom.js --><script src="https://cdnjs.cloudflare.com/ajax/libs/headroom/0.11.0/headroom.min.js" integrity="sha256-AsUX4SJE1+yuDu5+mAVzJbuYNPHj/WroHuZ8Ir/CkE0=" crossorigin="anonymous"></script><script src="https://cdnjs.cloudflare.com/ajax/libs/headroom/0.11.0/jQuery.headroom.min.js" integrity="sha256-ZX/yNShbjqsohH1k95liqY9Gd8uOiE1S4vZc+9KQ1K4=" crossorigin="anonymous"></script><!-- pkgdown --><link href="http://diogoferrari.github.io/hdpGLM/pkgdown.css" rel="stylesheet">
-<script src="http://diogoferrari.github.io/hdpGLM/pkgdown.js"></script><meta property="og:title" content="Page not found (404)">
+<!-- clipboard.js --><script src="https://cdnjs.cloudflare.com/ajax/libs/clipboard.js/2.0.6/clipboard.min.js" integrity="sha256-inc5kl9MA1hkeYUt+EC3BhlIgyp/2jDIyBLS6k3UxPI=" crossorigin="anonymous"></script><!-- headroom.js --><script src="https://cdnjs.cloudflare.com/ajax/libs/headroom/0.11.0/headroom.min.js" integrity="sha256-AsUX4SJE1+yuDu5+mAVzJbuYNPHj/WroHuZ8Ir/CkE0=" crossorigin="anonymous"></script><script src="https://cdnjs.cloudflare.com/ajax/libs/headroom/0.11.0/jQuery.headroom.min.js" integrity="sha256-ZX/yNShbjqsohH1k95liqY9Gd8uOiE1S4vZc+9KQ1K4=" crossorigin="anonymous"></script><!-- pkgdown --><link href="http://www.diogoferrari.com/hdpGLM/pkgdown.css" rel="stylesheet">
+<script src="http://www.diogoferrari.com/hdpGLM/pkgdown.js"></script><meta property="og:title" content="Page not found (404)">
 <!-- mathjax --><script src="https://cdnjs.cloudflare.com/ajax/libs/mathjax/2.7.5/MathJax.js" integrity="sha256-nvJJv9wWKEm88qvoQl9ekL2J+k/RWIsaSScxxlsrv8k=" crossorigin="anonymous"></script><script src="https://cdnjs.cloudflare.com/ajax/libs/mathjax/2.7.5/config/TeX-AMS-MML_HTMLorMML.js" integrity="sha256-84DKXVJXs0/F8OTMzX4UR909+jtl4G7SPypPavF+GfA=" crossorigin="anonymous"></script><!--[if lt IE 9]>
 <script src="https://oss.maxcdn.com/html5shiv/3.7.3/html5shiv.min.js"></script>
 <script src="https://oss.maxcdn.com/respond/1.4.2/respond.min.js"></script>
@@ -31,7 +31,7 @@
         <span class="icon-bar"></span>
       </button>
       <span class="navbar-brand">
-        <a class="navbar-link" href="http://diogoferrari.github.io/hdpGLM/index.html">hdpGLM</a>
+        <a class="navbar-link" href="http://www.diogoferrari.com/hdpGLM/index.html">hdpGLM</a>
         <span class="version label label-default" data-toggle="tooltip" data-placement="bottom" title="Released version">1.0.3</span>
       </span>
     </div>
@@ -39,13 +39,13 @@
     <div id="navbar" class="navbar-collapse collapse">
       <ul class="nav navbar-nav">
 <li>
-  <a href="http://diogoferrari.github.io/hdpGLM/articles/hdpGLM.html">Get started</a>
+  <a href="http://www.diogoferrari.com/hdpGLM/articles/hdpGLM.html">Get started</a>
 </li>
 <li>
-  <a href="http://diogoferrari.github.io/hdpGLM/reference/index.html">Reference</a>
+  <a href="http://www.diogoferrari.com/hdpGLM/reference/index.html">Reference</a>
 </li>
 <li class="dropdown">
-  <a href="http://diogoferrari.github.io/hdpGLM/#" class="dropdown-toggle" data-toggle="dropdown" role="button" data-bs-toggle="dropdown" aria-expanded="false">
+  <a href="http://www.diogoferrari.com/hdpGLM/#" class="dropdown-toggle" data-toggle="dropdown" role="button" data-bs-toggle="dropdown" aria-expanded="false">
     Articles
      
     <span class="caret"></span>
@@ -57,7 +57,7 @@
   </ul>
 </li>
 <li>
-  <a href="http://diogoferrari.github.io/hdpGLM/news/index.html">Changelog</a>
+  <a href="http://www.diogoferrari.com/hdpGLM/news/index.html">Changelog</a>
 </li>
       </ul>
 <ul class="nav navbar-nav navbar-right">

diff --git a/index.html b/index.html
@@ -104,7 +104,7 @@
 <div class="section level1">
 <h1 id="usage">Usage<a class="anchor" aria-label="anchor" href="#usage"></a>
 </h1>
-<p>For more details, see package <a href="http://www.diogoferrari.com/hdpGLM/index.html" class="external-link">website</a>. Here is a simple example:</p>
+<p>For more details, see package <a href="http://www.diogoferrari.com/hdpGLM/index.html">website</a>. Here is a simple example:</p>
 <pre><code><span><span class="kw"><a href="https://rdrr.io/r/base/library.html" class="external-link">library</a></span><span class="op">(</span><span class="va"><a href="https://github.com/DiogoFerrari/hdpGLM" class="external-link">hdpGLM</a></span><span class="op">)</span></span>
 <span></span>
 <span><span class="co">## Example for the dpGLM (no hierarchical structure)</span></span>
